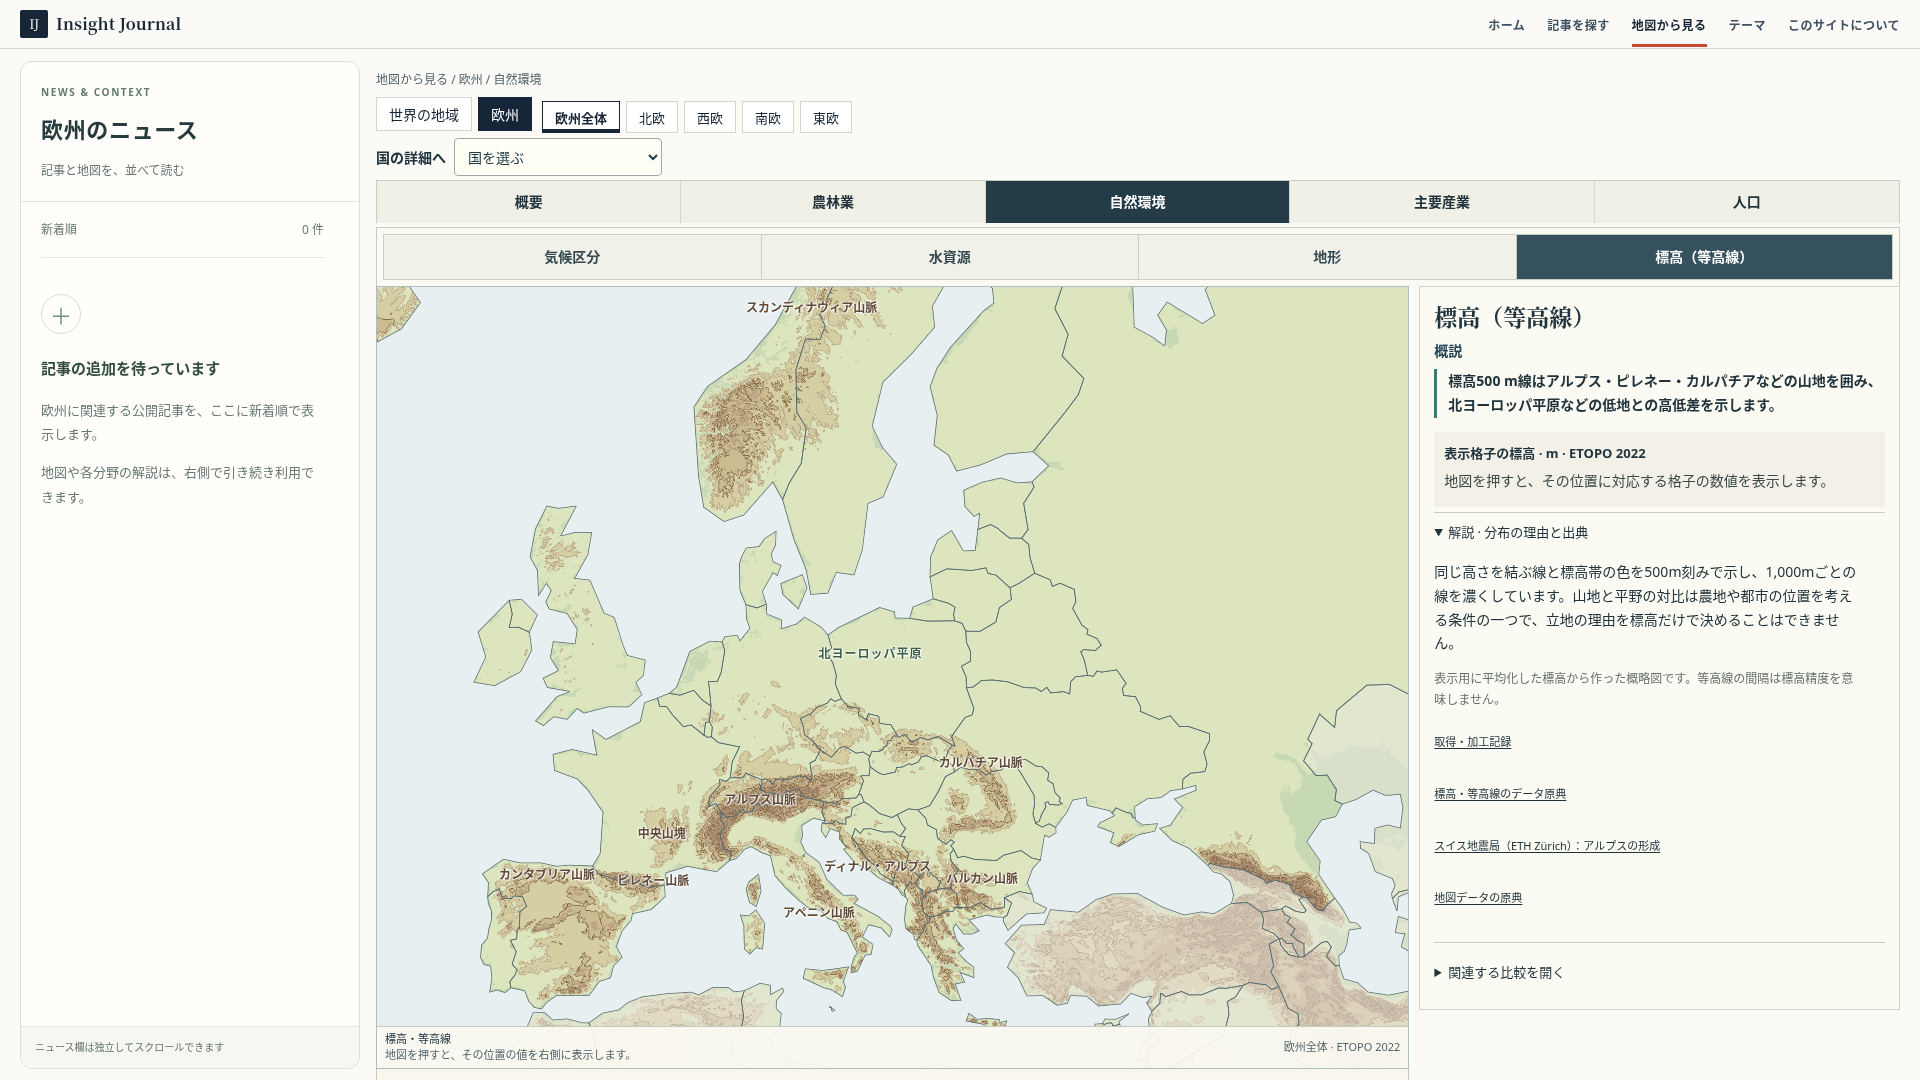
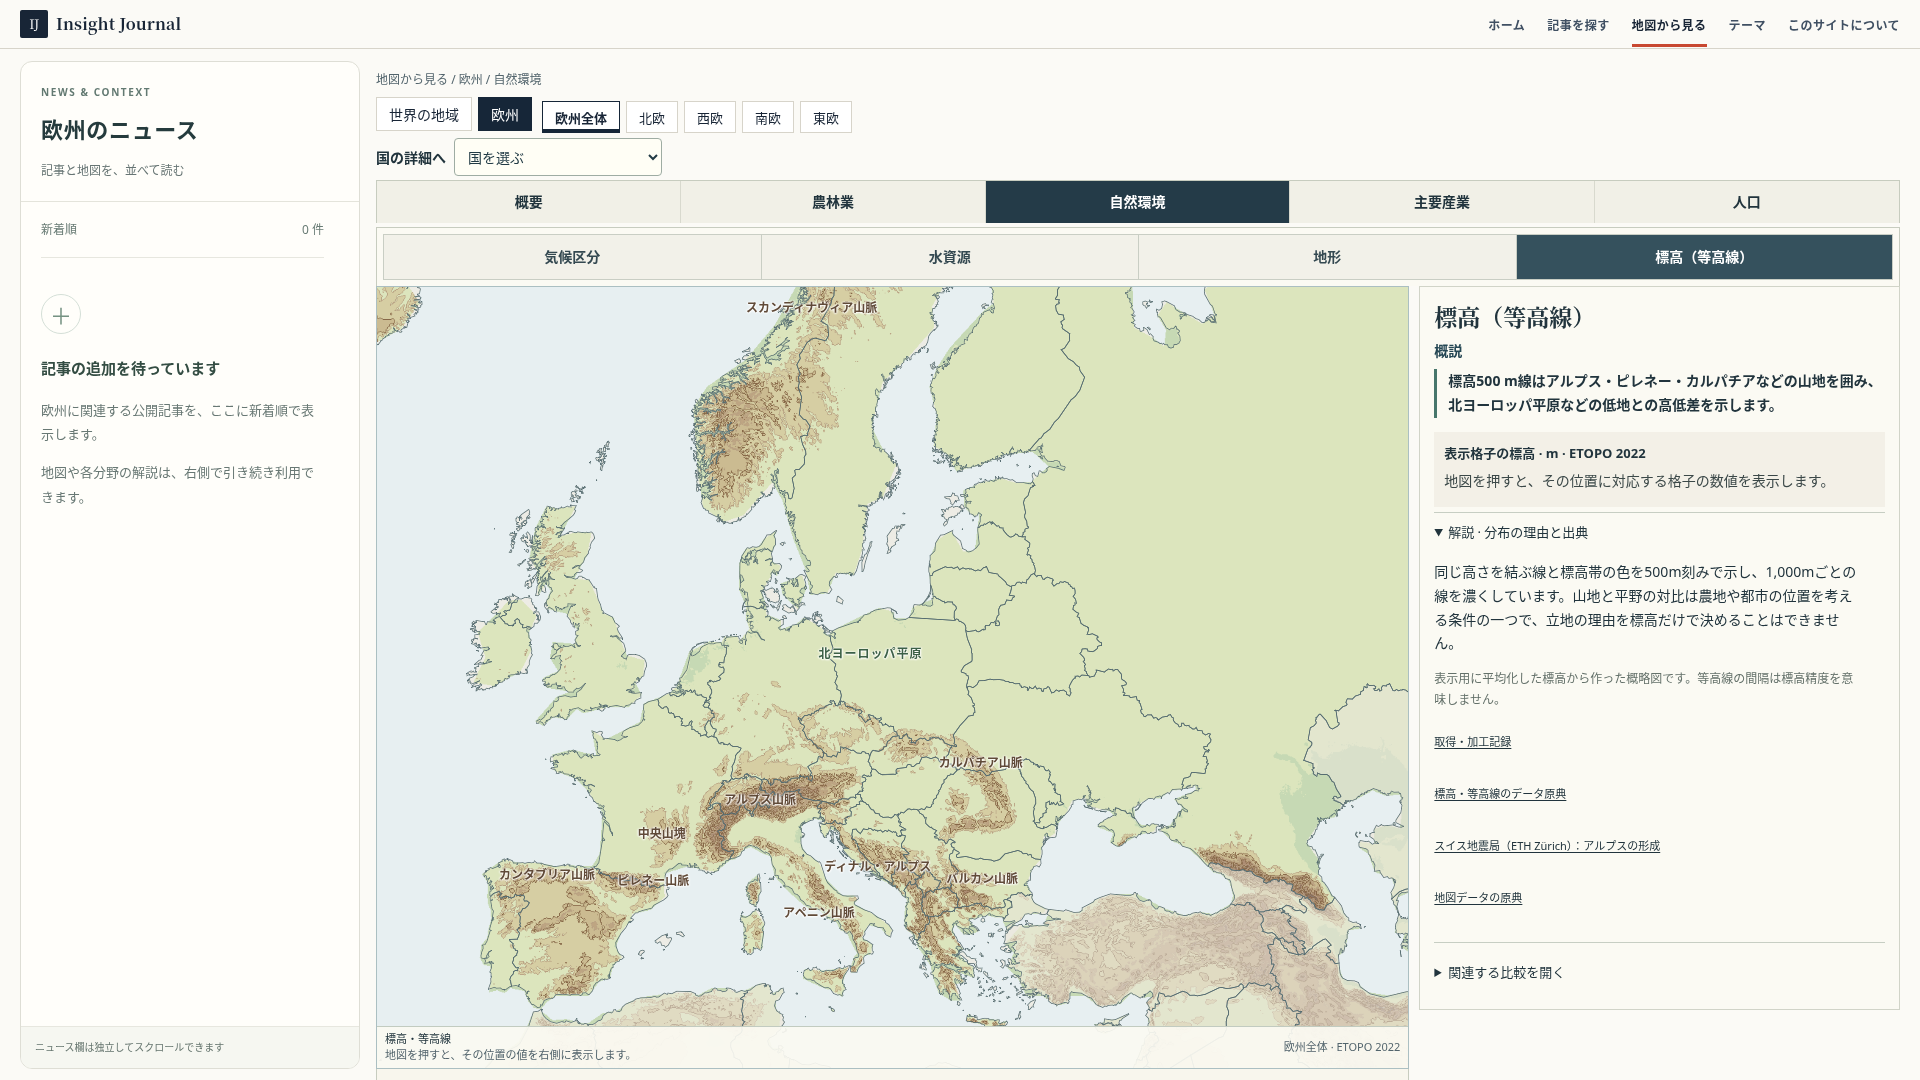
Handle transport-decoded Europe geography and verify genuine detailed-map delivery

diff --git a/src/lib/atlas-europe-explorer.ts b/src/lib/atlas-europe-explorer.ts
@@ -47,13 +47,15 @@ export async function initEuropeAtlas() {
   try {
     const response=await fetch(config.geographyURL);
     if(!response.ok||!response.body)throw new Error('Detailed Europe geography unavailable');
-    const data=await new Response(response.body.pipeThrough(new DecompressionStream('gzip'))).json();
+    const bytes=new Uint8Array(await response.arrayBuffer());
+    const body=bytes[0]===0x1f&&bytes[1]===0x8b?new Blob([bytes]).stream().pipeThrough(new DecompressionStream('gzip')):bytes;
+    const data=await new Response(body).json();
     const expected=new Map(config.geography.features.map(feature=>[feature.properties.code,feature.properties.kind]));
     if(data.type!=='FeatureCollection'||!Array.isArray(data.features)||data.features.length!==expected.size
       ||new Set(data.features.map((feature:Feature)=>feature.properties?.code)).size!==expected.size
       ||data.features.some((feature:Feature)=>expected.get(feature.properties?.code)!==feature.properties?.kind||!['Polygon','MultiPolygon'].includes(feature.geometry?.type)))throw new Error('Invalid detailed Europe geography');
-    config.geography=data;
-  }catch(error){console.warn('Detailed Europe geographic input unavailable; retain the legacy source for country fitting',error);}
+    config.geography=data;root.dataset.euGeography='detailed';
+  }catch(error){root.dataset.euGeography='legacy';console.warn('Detailed Europe geographic input unavailable; retain the legacy source for country fitting',error);}
   const { countries, cities, geography } = config;
   const query = <T extends Element>(selector: string) => root.querySelector<T>(selector)!;
   const all = <T extends Element>(selector: string) => Array.from(root.querySelectorAll<T>(selector));

diff --git a/docs/review/europe-2026-10-12/README.md b/docs/review/europe-2026-10-12/README.md
@@ -4,7 +4,7 @@
 
 ## 実装した部分
 
-- 海岸線・国境はNatural Earth公式維持リポジトリの実1:10m形状へ更新。元3,182頂点から103,907頂点。表示枠での切り出しのみで、平滑化・細分化による見かけの細部は作っていない。出典commit・SHA256・公有条件は [取得記録](../../../data-source/atlas/europe/detailed-coast-2026-10-12.json)。SVGでは同じ国形状を`defs/use`で再利用し、操作地図の詳細形状はgzipを別取得する。旧格子の数値・国マスクは生成時の原形状を保持する。
+- 海岸線・国境はNatural Earth公式維持リポジトリの実1:10m形状へ更新。元3,182頂点から103,907頂点。表示枠での切り出しのみで、平滑化・細分化による見かけの細部は作っていない。出典commit・SHA256・公有条件は [取得記録](../../../data-source/atlas/europe/detailed-coast-2026-10-12.json)。SVGでは同じ国形状を`defs/use`で再利用し、操作地図の詳細形状はgzipを別取得する。旧格子の数値・国マスクは生成時の原形状を保持する。HTTPがgzipを既に展開した応答と未展開ファイルの両方に対応し、ブラウザ検査で実際の詳細形状読込を確認する。
 - 農畜産3ジャンル、元16品目・数量格子・全集中域・地図下統計を保持。概略図は約4,000km²未満の小断片を省略（品目が全て消える場合は最大部分を残す）、新しい海岸で海側を切り落とす。断片を橋渡し・拡張しない。選択時は元の全集中域の輪郭を保持した表示用面を強調。ラベルは保持面内の実正値格子に固定し、局所7×7格子合計で持続した集中を選ぶ。小麦・トウモロコシ・ジャガイモは出典の実値を確認した東側の窓内に置く。北イタリア等を重要でないとする順位判断ではない。
 - 国名／品目の札とアイルランドの「〇非」を撤去。「非」は2020年の北部・西部NUTS2における乳牛以外の牛395,751頭で、肉牛出荷量ではない。南部の乳牛1,124,842頭とともに右の説明へ正式名称で残す。牛・豚・鶏・羊に加え、酪農・生乳の別選択を提供。ただし酪農の分布面は原資料待ちと明示し、総牛数を乳牛面へ変換しない。
 - 地図内の全体／拡大／縮小／描画方式ボタン群と気候のクリック説明札を撤去。都市名の下線、カーソル、hover/focusで操作性を示す。全都市のラベル配置を選択によって並べ替えず、リスボンも常設。北側を多く切り、PCの上部を圧縮する。共通の雨温図尺度と月別数値表を保持。
